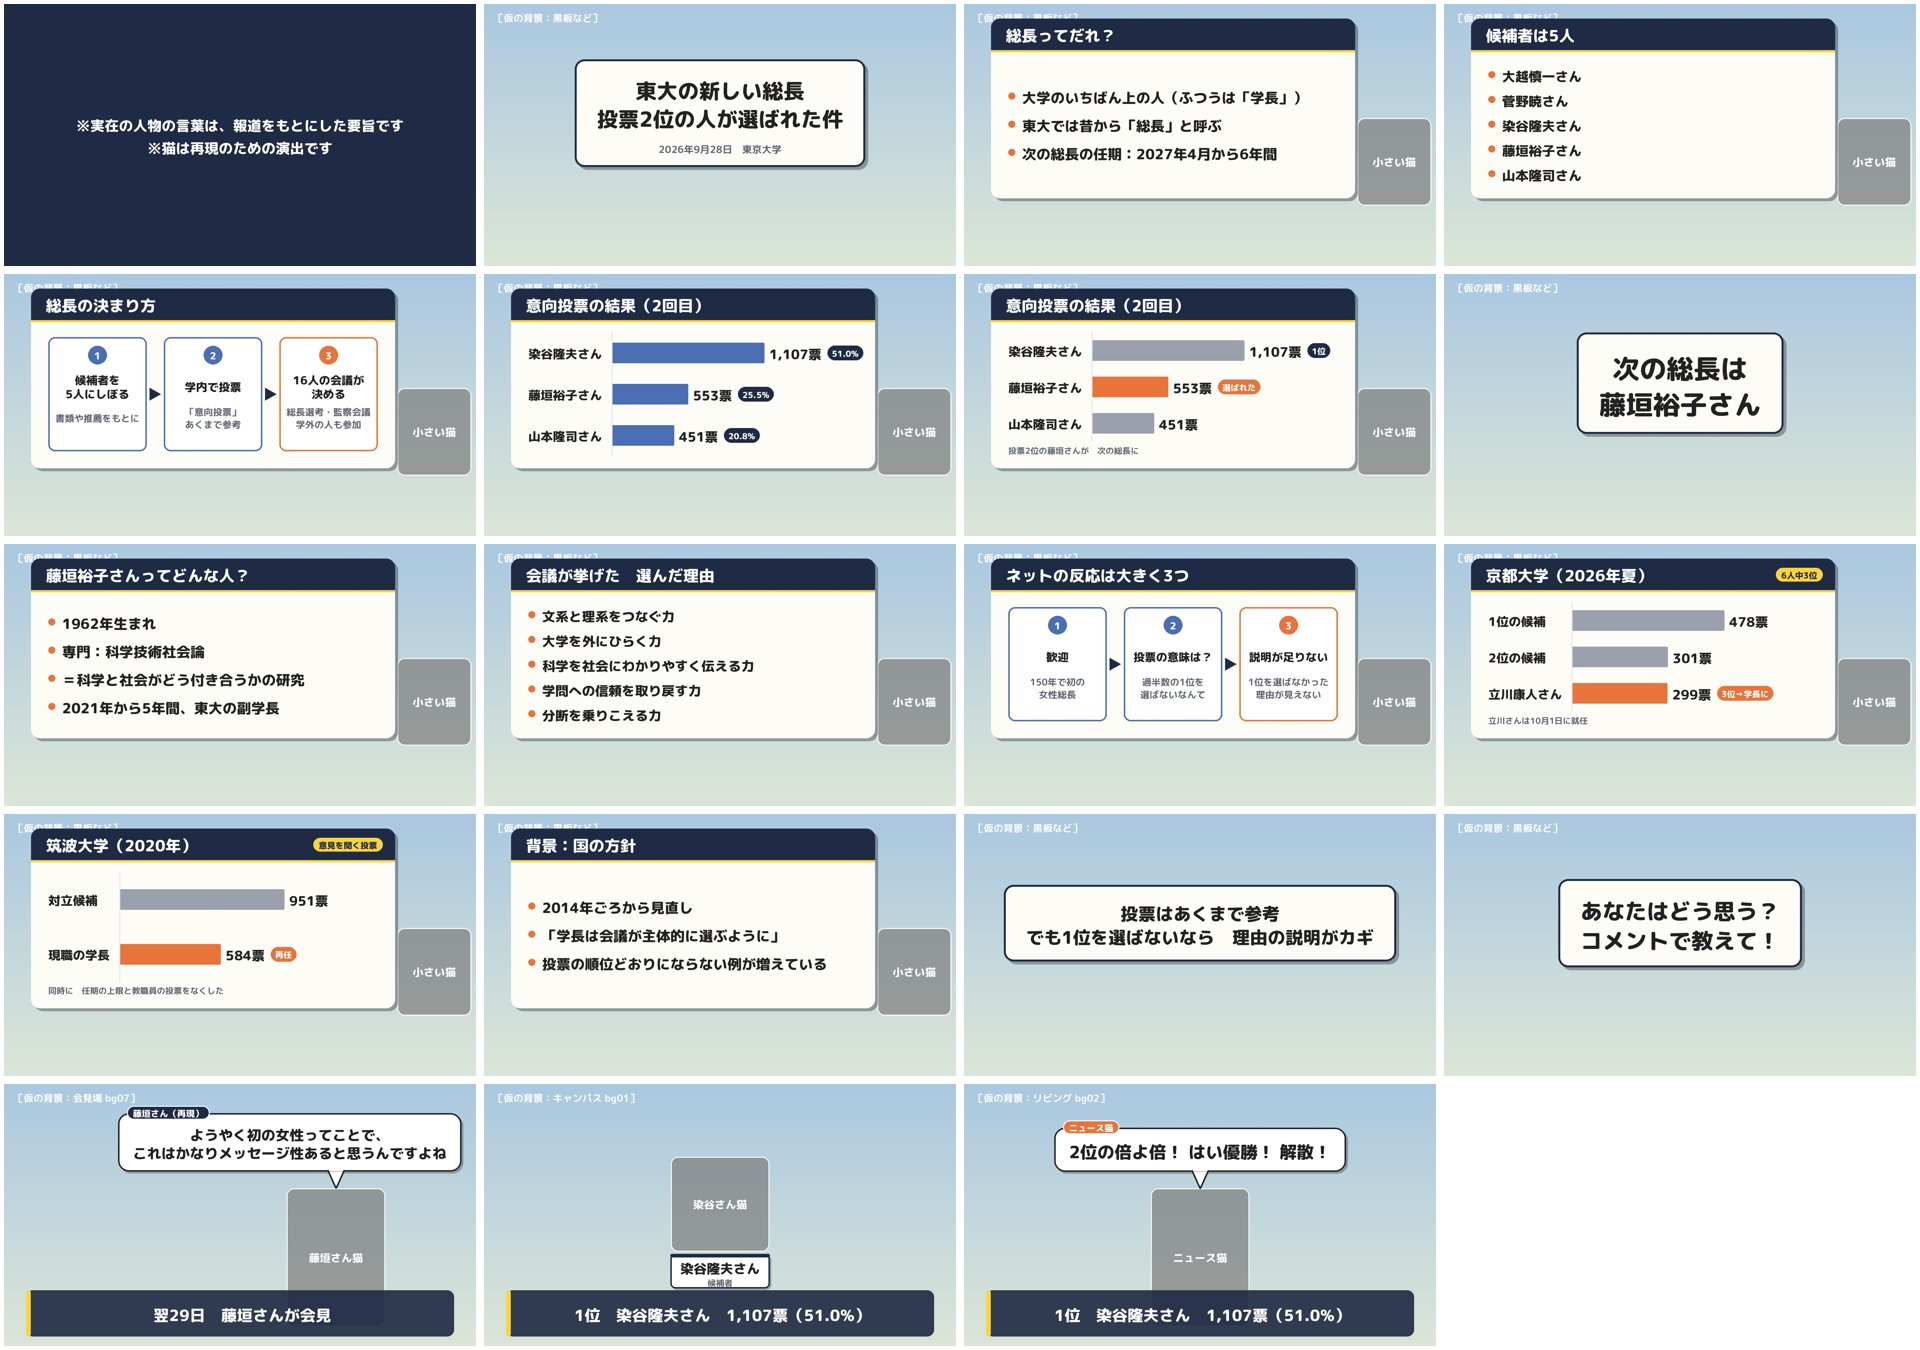
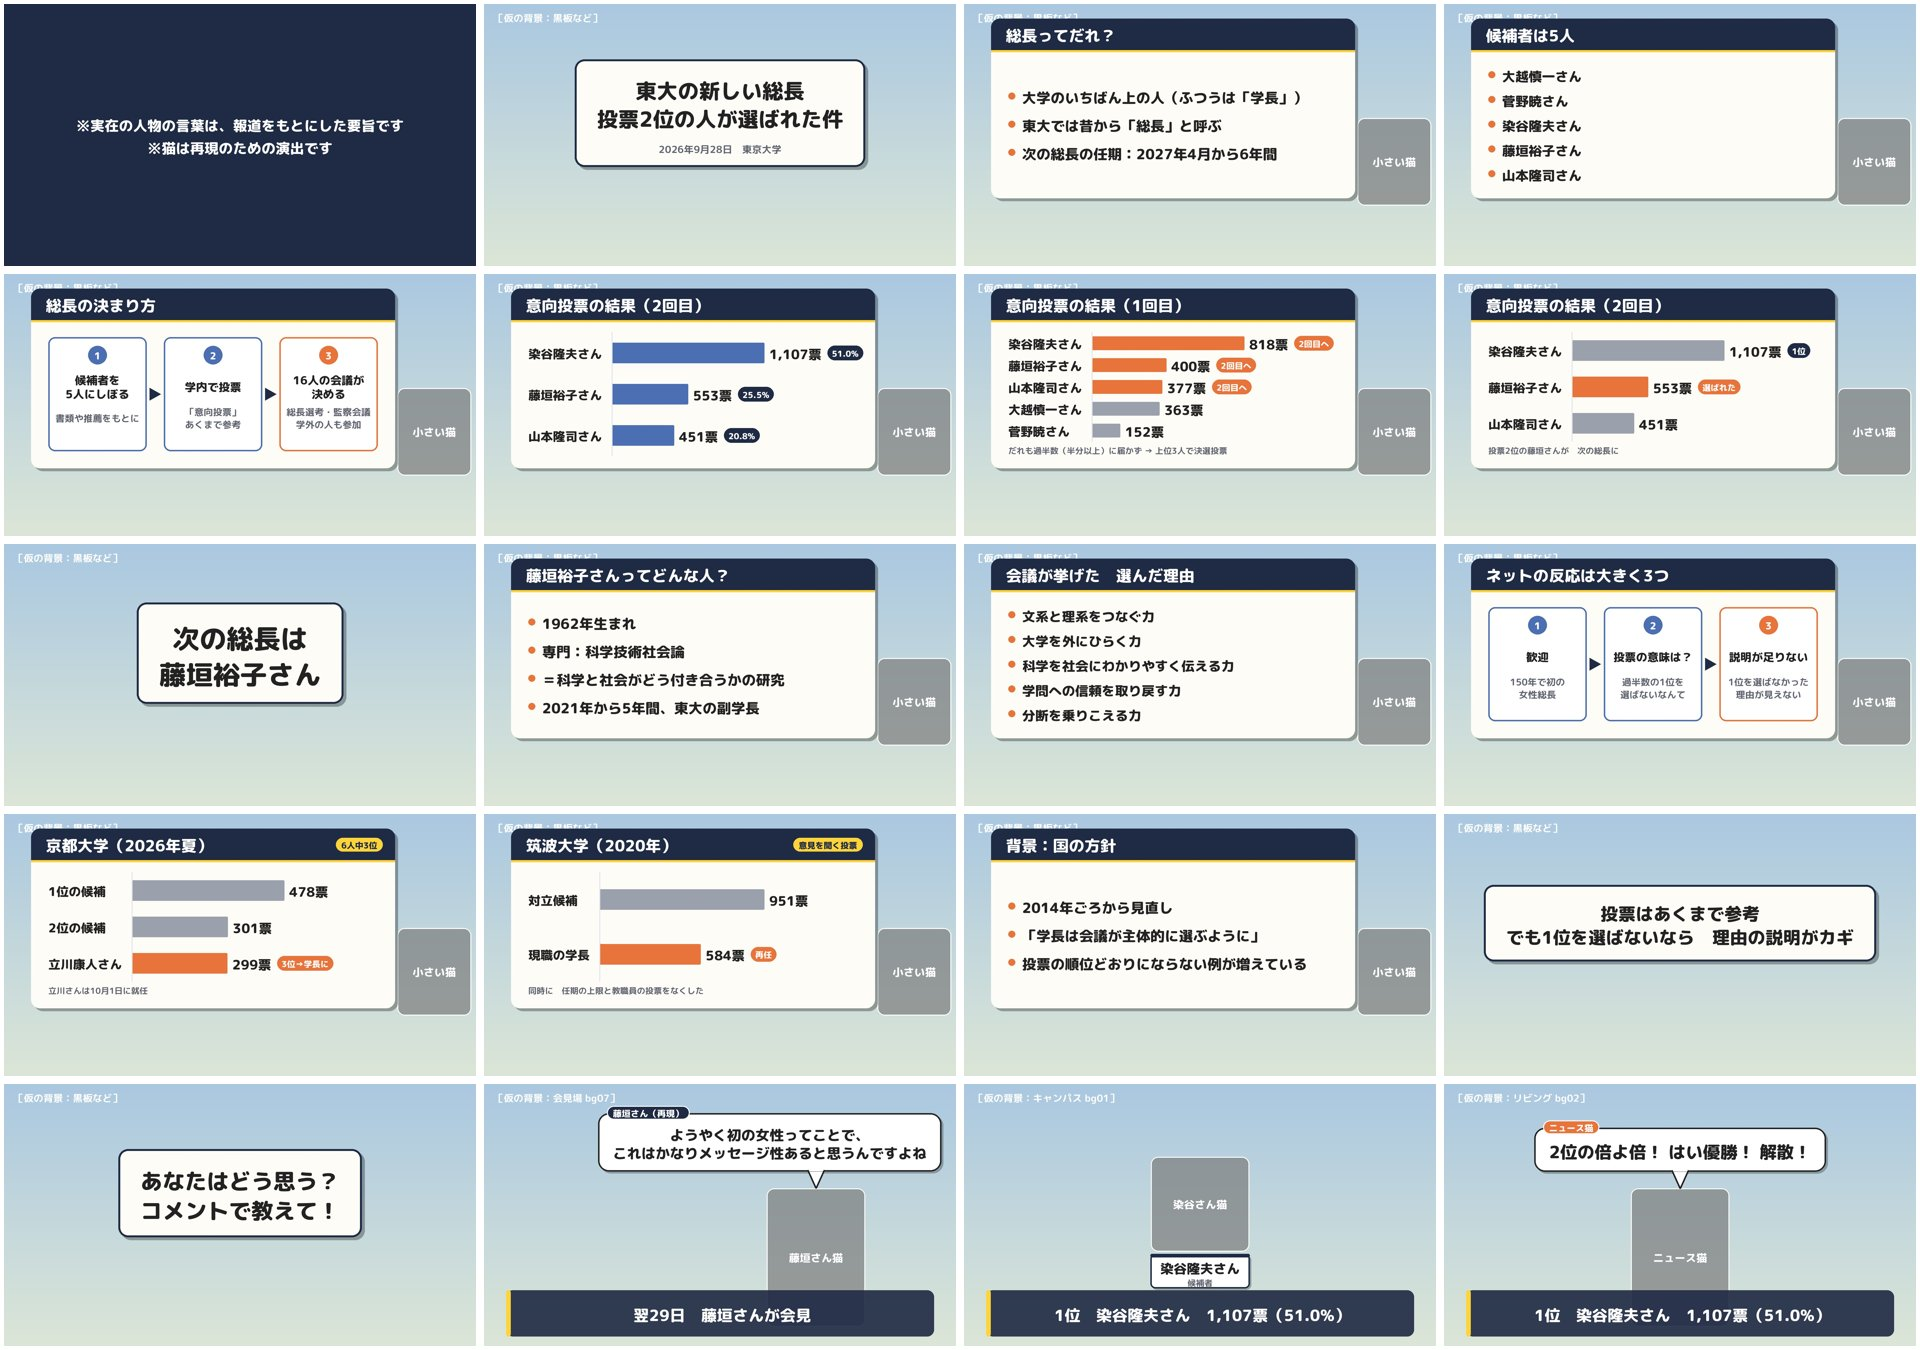
catmeme: 1回目の投票で決着がつかず決選投票になった説明、ダブルスコアの字幕を追加、「呪文？」→「どんな学問？」
Claude-Session: https://claude.ai/code/session_011g9CsrfFD5YswfNSvNDW39

diff --git a/catmeme/cuts_01_todai.py b/catmeme/cuts_01_todai.py
@@ -112,7 +112,11 @@ def cuts_trial():
         dict(bg=bg("bg04_voting"), cats=TEACHERS, say="どれにしよ〜\nまあこの人っしょ", say_name="先生たち",
              plate_xy=(60, 900), dur=2.0),
         news("dance_maxwell_cat", "結果\nはよ", dur=1.3, se="pop"),
-        narr("bg06_spotlight", "2回目の投票の\n結果は……", "dance_koto_nai_cat", se="drum", dur=2.2),
+        card("e05a_votes1", "1回目の投票は　だれも過半数（半分以上）に届かず", "excited_hodomoe_city_cat",
+             dur=2.8, se="pop"),
+        news("spin_spinning_cat", "え、\n決まらんのかい", dur=1.4),
+        card("e05a_votes1", "なので上位3人で　もう1回投票（決選投票）", "dance_wop_cat", dur=2.6, se="pop"),
+        narr("bg06_spotlight", "2回目（決選投票）\nの結果は……", "dance_koto_nai_cat", se="drum", dur=2.2),
         card("e05_votes", "染谷さんが過半数でダントツ1位", "happy_chipi_chapa_cat", dur=2.6, se="don", sound=True),
         news("realize_wet_cat_stare", "え、1位の人、\n半分以上\n取ってんじゃん"),
         news("joy_happy_happy_happy_cat", "2位の倍よ倍！\nはい優勝！\n解散！", sound=True),
@@ -144,6 +148,8 @@ def cuts_trial():
         # 発表後のリアクション（驚き → 戸惑い → 絶望）
         news("surprise_big_pupils_cat", "えええええ！？", dur=1.3, se="don"),
         news("weird_meowing_cat", "2位の人\nきたーーー！？", dur=1.5, flip=True),
+        card("e05b_votes_selected", "1位にダブルスコアをつけられた　2位の人が選ばれた", "laugh_laughing_dog",
+             dur=2.8, se="pop"),
         news("confused_i_dont_know_cat", "ちょ待って\n1位の人は？\nどこいったの？", flip=True),
         news("huh_huh_cat", "……は？\n半分以上\n取ってたよね？"),
         news("despair_dramatic_kitten", "投票の意味\nとは……", dur=1.6),
@@ -182,7 +188,7 @@ def cuts_rest():
         card("e06_profile", "藤垣裕子さん　1962年生まれ", "think_bike_front_seat_cat", b="bg08_study",
              bgm={"file": PURPLE, "gain": -7, "from": 40}),
         card("e06_profile", "専門は「科学技術社会論」", "think_bike_front_seat_cat", b="bg08_study", dur=2.0),
-        news("huh_goat_talks_to_huh_cat", "かがくぎじゅつ\nしゃかいろん……？\nえ、呪文？"),
+        news("huh_goat_talks_to_huh_cat", "かがくぎじゅつ\nしゃかいろん……？\nえ、どんな学問？"),
         card("e06_profile", "ざっくり言うと「科学と社会がどう付き合っていくか」の研究", "leave_cat_leaves_home",
              b="bg08_study", dur=2.8),
         card("e06_profile", "2021年から5年間　東大の副学長も務めた", "leave_cat_leaves_home", b="bg08_study", dur=2.4),
@@ -277,7 +283,7 @@ SE_MAP = [
     ("候補者は5人", "game_smash_challenger"), ("全員つよそう", "aura_02"), ("副学長とか理事とか", "shine_kira_01"),
     ("どうやって\n選ぶん", "cursor_move_01"),
     ("学内の先生たちが投票", "button_13"), ("どれにしよ", {"f": "thinking_time", "gain": -8}), ("結果\nはよ", "spo"),
-    ("2回目の投票の", "drumroll"), ("染谷さんが過半数", "fanfare_pararappara"), ("え、1位の人", "kon"),
+    ("2回目（決選投票）", "drumroll"), ("染谷さんが過半数", "fanfare_pararappara"), ("え、1位の人", "kon"),
     ("解散しねーのよ", "deflate_hyororo"), ("e05_votes", None),
     ("ところが\n最後に", "doon_movie"), ("最後は「総長選考", "page_turn_02"), ("……ん？", "pi"),
     ("じゃ会議はじめまーす", "gong_match_start"), ("投票は「参考に", "card_flip"), ("え、投票って", "boing_fail"),

diff --git a/catmeme/make_parts_01_todai.py b/catmeme/make_parts_01_todai.py
@@ -37,6 +37,13 @@ ITEMS = {
         ("学内で投票", "「意向投票」\nあくまで参考"),
         ("16人の会議が\n決める", "総長選考・監察会議\n学外の人も参加"),
     ]),
+    "e05a_votes1": P.bars("意向投票の結果（1回目）", [
+        ("染谷隆夫さん", 818, True, "2回目へ"),
+        ("藤垣裕子さん", 400, True, "2回目へ"),
+        ("山本隆司さん", 377, True, "2回目へ"),
+        ("大越慎一さん", 363, False, ""),
+        ("菅野暁さん", 152, False, ""),
+    ], note="だれも過半数（半分以上）に届かず → 上位3人で決選投票"),
     "e05_votes": P.bars("意向投票の結果（2回目）", [
         ("染谷隆夫さん", 1107, False, "51.0%"),
         ("藤垣裕子さん", 553, False, "25.5%"),

diff --git a/catmeme/scripts/01_todai_president.md b/catmeme/scripts/01_todai_president.md
@@ -88,7 +88,12 @@
 先生たち「どれにしよ〜」［並んで考える猫たち］
 先生たち「まあこの人っしょ」［うなずく猫たち］
 
-【字幕】2回目の投票の結果は……
+〔カード：1回目の結果〕染谷818／藤垣400／山本377／大越363／菅野152
+【字幕】1回目の投票は　だれも過半数（半分以上）に届かず
+ニュース猫「え、決まらんのかい」
+【字幕】なので上位3人で　もう1回投票（決選投票）
+
+【字幕】2回目（決選投票）の結果は……
 
 ［ドラムロール風の猫］
 
@@ -130,6 +135,7 @@
 
 ニュース猫「えええええ！？」［叫ぶ猫］
 ニュース猫「2位の人きたーーー！？」［ひっくり返る猫］
+【字幕】1位にダブルスコアをつけられた　2位の人が選ばれた
 ニュース猫「マジかよ逆転じゃん」［口をあける猫］
 
 【字幕】報道によると　投票1位でない人が選ばれたのは　今の選び方になってから初めてとみられる
@@ -139,7 +145,7 @@
 【字幕】藤垣裕子さん　1962年生まれ
 【字幕】専門は「科学技術社会論」
 
-ニュース猫「かがくぎじゅつしゃかいろん……？ え、呪文？」［混乱する猫］
+ニュース猫「かがくぎじゅつしゃかいろん……？ え、どんな学問？」［混乱する猫］
 
 【字幕】ざっくり言うと「科学と社会がどう付き合っていくか」を研究する分野
 【字幕】2021年から5年間　東大の副学長も務めた
@@ -242,6 +248,7 @@
 ---
 
 ## 確認メモ（台本確定前に一次情報で再確認すること）
+- 1回目投票（染谷818／藤垣400／山本377／大越363／菅野152／白票45、計2,155）・過半数なしで上位3人の2回目
 - 投票結果の数字（2回目投票：染谷 1,107／藤垣 553／山本 451）と候補者5人の名前
 - 選考会議の構成（経営協議会・教育研究評議会から各8人、計16人）
 - 「投票1位以外の選出は現行制度で初」は報道の「とみられる」表現。言い切らない
